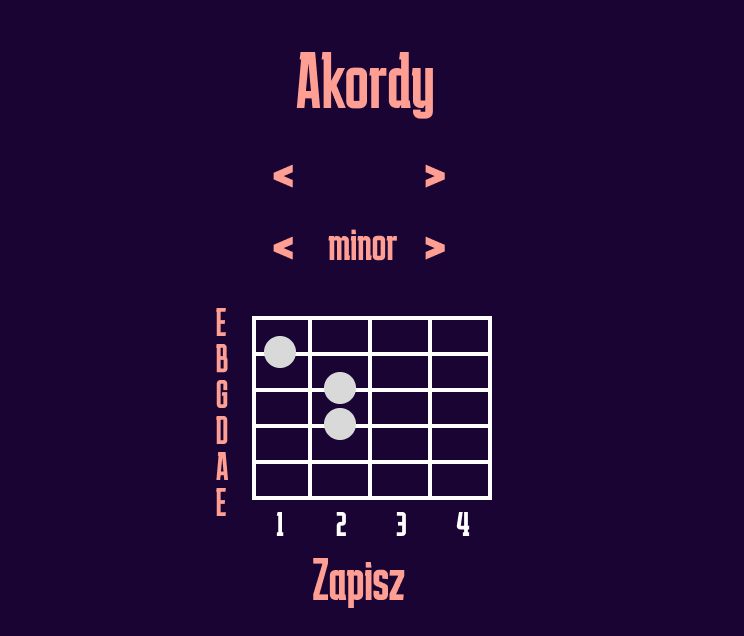
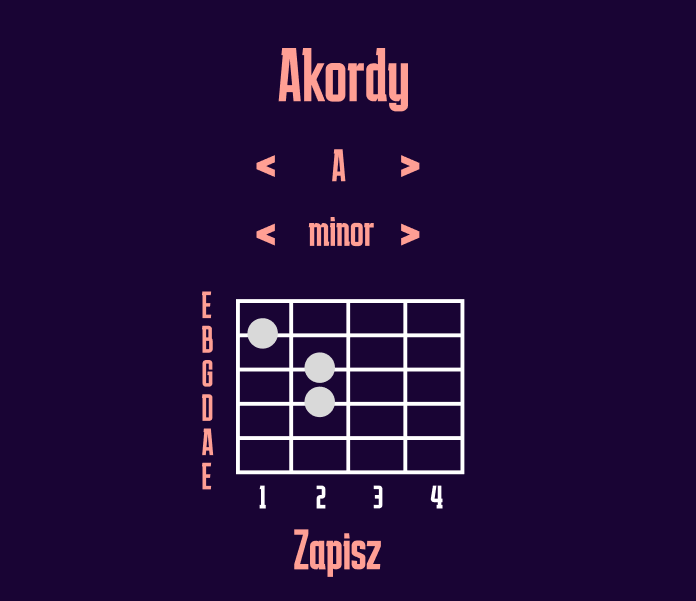
poprawki

diff --git a/DyplomSzablonMemoirUTF8/dodatekB.tex b/DyplomSzablonMemoirUTF8/dodatekB.tex
@@ -1,5 +1,25 @@
 \chapter{Instrukcja obsługi aplikacji}
-Po uruchomieniu aplikacji \emph{Guitarrr} w jej oknie pojawi się menu główne z 6 przyciskami:
+
+Finalna aplikacja różni się w kilku kwestiach od zaprojektowanych wcześniej makiet. Zmianie uległo ułożenie elementów menu głównego, dodano nowe przyciski "Księga akordów" i "X". Dodano dwa nowe widoki, których nie umieszczono na początkowych makietach: diagram akordów, zapisane akordy. Do obydwu z tych widoków można przejść jedynie z widoku księgi akordów, ponieważ stanowią one jego uzupełnienie. 
+
+Porównując widok metronomu, można zauważyć zmianę w elementach graficznych odpowiedzialnych za wybijanie taktów. Dodano też indykator BPM i przyciski odpowiedzialne za jego zmianę, jak i za zmianę tempa i uruchomienie metronomu.
+
+Księgę akordów uzupełniono o przycisk informacji kontekstowej, przycisk wyjścia i przyciski przenoszące do widoków "diagramu akordów" i "zapisanych akordów".
+
+Widok koła kwintowego uległ jedynie rozszerzeniu o wewnętrzne koło nut, przycisk wyjścia i informacji kontekstowej.
+
+Widok stroika pozostał w dużej mierze niezmieniony, jedynie strzałki wskazujące poziom nastrojenia zostały zastąpione na znaki "b" oraz "\#", przyjęto te oznaczenia jako ton zaniżony i~zawyżony.
+
+Scena treningu słuchu prezentuje się podobnie, natomiast przyciski odpowiedzi umieszczono wyżej, pod nimi natomiast znalazły się przyciski "GRAJ" i "RESET", odpowiedzialne za uruchomienie i reset treningu.
+
+Po uruchomieniu aplikacji \emph{Guitarrr} przed użytkownikiem pojawi się menu główne (patrz rys~\ref{fig:Menu}) z 6 przyciskami.
+
+\begin{figure}[htb]
+	\centering
+	\includegraphics[width=.50\linewidth]{rysB/MenuG}
+	\caption{Wizualna reprezentacja akordu} \label{fig:Menu}
+\end{figure}
+
 \begin{itemize}
     \item Metronom -- po naciśnięciu użytkownik zostanie przeniesiony do widoku metronomu.
     \item Akordy gitarowe -- po naciśnięciu użytkownik zostanie przeniesiony do widoku księgi akordów.
@@ -8,50 +28,94 @@ Po uruchomieniu aplikacji \emph{Guitarrr} w jej oknie pojawi się menu główne 
     \item Koło kwintowe -- po naciśnięciu użytkownik zostanie przeniesiony do widoku koła kwintowego.
     \item X -- po naciśnięciu aplikacja zostanie wyłączona.
 \end{itemize}
-Każdy z widoków zawiera przycisk ze znakiem "?", po naciśnięciu którego wyświetlona zostanie pomoc kontekstowa.
+Każdy z widoków głównych poza widokiem menu zawiera przycisk ze znakiem "?", po naciśnięciu którego wyświetlona zostanie pomoc kontekstowa.
 
-% TO DO: dołożyć widok głównego menu
 
-% TO DO: nie zgadzają się punkty z listy powyżej (lista przycisków) z opisem poniżej. Coś nie tak jest z "Akordy gitarowe"
-%        Poniżej mamy "Księgę akordów" oraz "Diagram akordów"
 
-% TO DO: dodać komentarz z odwołaniem do zaprezentowanych wcześniej makiet (czy coś się zmieniło? czy pojawiły się nowe widoku, których nie było na makietach?
+% DONE: dołożyć widok głównego menu
+
+% DONE: Do diagramu akordów można przejść jedynie ze sceny księgi akordów, zawrę tą informację ||| nie zgadzają się punkty z listy powyżej (lista przycisków) z opisem poniżej. Coś nie tak jest z "Akordy gitarowe"
+%        Poniżej mamy "Księgę akordów" oraz "Diagram akordów" 
+
+% DONE: dodać komentarz z odwołaniem do zaprezentowanych wcześniej makiet (czy coś się zmieniło? czy pojawiły się nowe widoku, których nie było na makietach?
 
 \paragraph{Metronom}
 
-Korzystając z metronomu, użytkownik ma dostęp do 2 przycisków odpowiedzialnych za zmianę liczby taktów (początkowo ustawione na 2) oraz 2 przyciski odpowiedzialne za zmianę liczby BPM (początkowo ustawione na 60). Aby dodać takt, należy nacisnąć przycisk z napisem "Dodaj takt", natomiast aby odjąć takt, użytkownik winien nacisnąć przycisk "Odejmij takt". Przycisk "+" służy do zwiększenia liczby BPM, natomiast "-" do ich zmniejszenia. Jeżeli użytkownik chciałby rozpocząć trening, należy nacisnąć przycisk "Start".
+Korzystając z metronomu (rys.~\ref{fig:Metronom}), użytkownik ma dostęp do 2 przycisków odpowiedzialnych za zmianę liczby taktów (początkowo ustawione na 2) oraz 2 przyciski odpowiedzialne za zmianę liczby BPM (początkowo ustawione na 60). Aby dodać takt, należy nacisnąć przycisk z napisem "Dodaj takt", natomiast aby odjąć takt, użytkownik winien nacisnąć przycisk "Odejmij takt". Przycisk "+" służy do zwiększenia liczby BPM, natomiast "-" do ich zmniejszenia. Jeżeli użytkownik chciałby rozpocząć trening, należy nacisnąć przycisk "Start".
 
-% TO DO: dołożyć widok metronomu
+\begin{figure}[htb]
+	\centering
+	\includegraphics[width=.50\linewidth]{rysB/METRO.png}
+	\caption{Widok metronomu} \label{fig:Metronom}
+\end{figure}
 
+% DONE: dołożyć widok metronomu
 
 \paragraph{Księga akordów}
 
-Korzystając z księgi akordów na ekranie widoczny jest akord, który podpisany jest nad nim. Do zmiany akordu służą 4 przyciski, które użytkownik może naciskać, aby przeglądać listę dostępnych akordów. Poniżej akordu znajduje się przycisk "Zapisz". Po jego naciśnięciu aktualnie wyświetlany akord zostanie zapisany i będzie dostępny w widoku zapisanych akordów.
+Korzystając z księgi akordów (rys.~\ref{fig:Ksiega_Zapisane}) na ekranie widoczny jest akord, który podpisany jest nad nim. Do zmiany akordu służą 4 przyciski, które użytkownik może naciskać, aby przeglądać listę dostępnych akordów. Poniżej akordu znajduje się przycisk "Zapisz". Po jego naciśnięciu aktualnie wyświetlany akord zostanie zapisany i będzie dostępny w widoku zapisanych akordów.
 
-% TO DO: dołożyć widok Księgi rekordów. Na makietach nie widziałem widoku zapisanych akordów. Czy nie trzeba dołożyć też tego widoku?
-
+% DONE: dołożyć widok Księgi rekordów. Na makietach nie widziałem widoku zapisanych akordów. Czy nie trzeba dołożyć też tego widoku?
+\begin{figure}[htb]
+    \centering
+		\begin{tabular}{ll}
+		a) & b) \\
+		\vtop{\vskip-2ex\hbox{\includegraphics[width=0.5\linewidth]{rysB/Akordy}}} &
+		\vtop{\vskip-2ex\hbox{\includegraphics[width=0.50\linewidth]{rysB/Zapisane}}} \\
+		\end{tabular}
+        \caption{Widoku scen: a) Księga akordów, b) Zapisane akordy}
+        \label{fig:Ksiega_Zapisane}
+\end{figure}
 
 \paragraph{Diagram akordów}
 
-Diagram akordów prezentuje wszystkie dostępne w aplikacji akordy. Użytkownik może przewijać diagram za pomocą dwóch przycisków umieszczonych na dole ekranu. Po naciśnięciu na jeden z akordów użytkownik zostanie przeniesiony do widoku księgi akordów.
+Diagram akordów (rys.~\ref{fig:DiagramAk}) prezentuje wszystkie dostępne w aplikacji akordy. Użytkownik może przewijać diagram za pomocą dwóch przycisków umieszczonych na dole ekranu. Po naciśnięciu na jeden z akordów użytkownik zostanie przeniesiony do widoku księgi akordów.
 
-% TO DO: dołożyć widok diagramu akordów. Czym się różni widok Księgi akordów od widoku Diagramu akordów? Na makietach nie było Diagramu akordów
+% DONE: dołożyć widok diagramu akordów. Czym się różni widok Księgi akordów od widoku Diagramu akordów? Na makietach nie było Diagramu akordów
 
+\begin{figure}[htb]
+	\centering
+	\includegraphics[width=.5\linewidth]{rysB/Diagram}
+	\caption{Diagram akordów} \label{fig:DiagramAk}
+\end{figure}
 
 \paragraph{Stroik}
 
-W widoku stroika dla użytkownika dostępne jest 6 przycisków oznaczających nuty gitarowe. Po naciśnięciu jednego z przycisków rozpocznie się faza nagrywania. Wtedy użytkownik powinien wziąć swoją gitarę i uderzyć w docelową strunę. Pośrodku sceny podświetlony zostanie 1 z 3 elementów (patrząc od lewej), oznaczających: zbyt niski ton, dobry ton lub zbyt wysoki ton.
+W widoku stroika (rys.~\ref{fig:Stroik}) dla użytkownika dostępne jest 6 przycisków oznaczających nuty gitarowe. Po naciśnięciu jednego z przycisków rozpocznie się faza nagrywania. Wtedy użytkownik powinien wziąć swoją gitarę i uderzyć w docelową strunę. Pośrodku sceny podświetlony zostanie 1 z 3 elementów (patrząc od lewej), oznaczających: zbyt niski ton, dobry ton lub zbyt wysoki ton. Aby skorzystać z narzędzia stroika aplikacja musi mieć dostęp do mikrofonu i~głośników urządzenia, na którym została uruchomiona.
 
-% TO DO: tutaj można dodać, że widok zaimplementowany pokrywa się z makietą
+\begin{figure}[htb]
+	\centering
+	\includegraphics[width=.5\linewidth]{rysB/Stroik}
+	\caption{Widok stroika} \label{fig:Stroik}
+\end{figure}
+
+% DONE: tutaj można dodać, że widok zaimplementowany pokrywa się z makietą
 
 \paragraph{Trening słuchu}
 
-Scena treningu słuchu wita użytkownika wyborem 4 możliwych tonacji do odbycia treningu. Po wybraniu jednej z 4 możliwych tonacji przed użytkownikiem pojawi się odpowiadająca skala majorowa. Następnie należy nacisnąć przycisk "GRAJ", po czym odgadnąć odegraną nutę za pomocą dostępnych przycisków. W razie chęci zmiany skali należy nacisnąć przycisk reset. Po jego naciśnięciu ponownie wyświetlone zostaną 4 możliwe tonacje.
+Scena treningu słuchu (rys.~\ref{TreningS}) wita użytkownika wyborem 4 możliwych tonacji do odbycia treningu. Po wybraniu jednej z 4 możliwych tonacji przed użytkownikiem pojawi się odpowiadająca skala majorowa. Następnie należy nacisnąć przycisk "GRAJ", po czym odgadnąć odegraną nutę za pomocą dostępnych przycisków. W razie chęci zmiany skali należy nacisnąć przycisk "RESET". Po jego naciśnięciu ponownie wyświetlone zostaną 4 możliwe tonacje.
 
-% TO DO: dodać widok Treningu słuchu. Na makiecie nie było przycisku "GRAJ". Proszę wyjaśnić różnice
+\begin{figure}[htb]
+    \centering
+    \begin{tabular}{ll}
+		a) & b) \\
+		\vtop{\vskip-2ex\hbox{\includegraphics[width=0.5\linewidth]{rysB/Tren1}}} &
+		\vtop{\vskip-2ex\hbox{\includegraphics[width=0.50\linewidth]{rysB/Tren2}}} \\
+		\end{tabular}
+    \caption{Widok scen: a) Widok początkowy, b) Widok po wyborze skali treningowej}
+    \label{fig:TreningS}
+\end{figure}
+
+% DONE: dodać widok Treningu słuchu. Na makiecie nie było przycisku "GRAJ". Proszę wyjaśnić różnice
 
 \paragraph{Koło kwintowe}
 
 Koło kwintowe zawiera 12 przycisków zewnętrznych, z którymi użytkownik może wchodzić w~interakcję. Po naciśnięciu jednego z przycisków na zewnętrznym kole, kolorowo zaznaczone zostaną te nuty, które wchodzą w skład skali majorowej, dla której wybrana nuta jest tonem głównym. Ponadto na szaro podświetlą się przyciski symbolizujące akordy pasujące do danej skali.
 
-% TO DO: dodać widok Koła kwintylowego. Na widoku powinno być widać wyszarzenia (dla przykładowego układu)
+\begin{figure}[htb]
+	\centering
+	\includegraphics[width=.5\linewidth]{rysB/KoloK}
+	\caption{Widok koła kwintowego} \label{fig:Kolo}
+\end{figure}
+
+% DONE: dodać widok Koła kwintylowego. Na widoku powinno być widać wyszarzenia (dla przykładowego układu)

diff --git a/DyplomSzablonMemoirUTF8/rozdzial04.tex b/DyplomSzablonMemoirUTF8/rozdzial04.tex
@@ -43,7 +43,7 @@ służy do analizy odebranego dźwięku. Zawiera ona wymienione poniżej zmienne
 \end{itemize}
 
 Funkcją uruchamiającą szybką transformatę Fouriera na odebranym dźwięku jest \texttt{Estimate} (listing~\ref{lst:1}) z tej klasy. Zwraca one zmienną float \texttt{bestFreq}, będąca najlepszym możliwym według programu ,,trafieniem'', jeżeli chodzi o odebraną częstotliwość. Klasa \texttt{TunerManager} odpowiedzialna za realizowanie logiki sceny, przechowuje odwołania do komponentów sceny: przyciski, pola tekstowe, obiekt \texttt{AudioSource}. W jej skład wchodzi 6 funkcji o nazwie \texttt{SetDesiredFrequency*}, przy czym każdemu z przycisków przypisany jest jeden jej odpowiednik, ustawiający parametry skryptu \texttt{AudioPitchEstimator}. Funkcją odpowiedzialną za logikę analizy dźwięku jest \texttt{EstimatePitch}, która korzysta z klasy \texttt{AudioPitchEstimator}, na tej podstawia ustawia wartości elementów tekstowych informujących użytkownika o poziomie nastrojenia instrumentu. 
-% TO DO:zamienione linie kodu
+% DONE:zamienione linie kodu
 % var nyquistFreq = AudioSettings.outputSampleRate / 2.0f;
 % if (!audioSource.isPlaying) return float.NaN;
 
@@ -191,7 +191,7 @@ private void ChangeChord()
 
 \subsection{Trening słuchu}
 
-Scena treningu słuchu zawiera przycisk odpowiedzialny za wybór skali. W skład sceny wchodzą dwie klasy: \texttt{EarTrainerManager} -- przypisany do menadżera sceny realizujący główną logikę sceny oraz \texttt{ButtonIndex} -- klasa pomocnicza przypisana do każdego z przycisków odpowiedzialnych za udzielenie odpowiedzi. Funkcje wchodzące w~skład głównej klasy to:
+Scena treningu słuchu zawiera przycisk odpowiedzialny za wybór skali treningowej, po wyborze której pojawiają się przyciski odpowiedzi, wraz z przyciskami odpowiedzialnymi za uruchomienie treningu i jego reset. W skład sceny wchodzą dwie klasy: \texttt{EarTrainerManager} -- przypisany do menadżera sceny realizujący główną logikę sceny oraz \texttt{ButtonIndex} -- klasa pomocnicza przypisana do każdego z przycisków odpowiedzialnych za udzielenie odpowiedzi. Funkcje wchodzące w~skład głównej klasy to:
 \begin{itemize}
     \item \texttt{Start} -- funkcja przypisująca obiekt \texttt{audioSource}, odpowiedzialny za odgrywanie dźwięków. Ustawia ona również funkcję \texttt{PlayRandomNote} do przycisku \texttt{playNoteButton}. Dodatkowo przypisuje ona funkcję \texttt{NoteGuessed} do każdego z przycisków odpowiedzialnych za odpowiedź.
     \item \texttt{PlayRandomNote} -- funkcja odpowiedzialna za odegranie losowego dźwięku po naciśnięciu przycisku \texttt{playNoteButton}. Ustawia ona odpowiedni index dla odegranej nuty, wykorzystywany następnie podczas zweryfikowania odpowiedzi podanej przez użytkownika.

diff --git a/DyplomSzablonMemoirUTF8/rozdzial05.tex b/DyplomSzablonMemoirUTF8/rozdzial05.tex
@@ -11,6 +11,7 @@ Specyfikacja systemu, na którym przeprowadzono testy akceptacyjne:
     \item Typ systemu: 64-bitowy system operacyjny, procesor x64,
     \item Obciążenie procesora podczas wykonywania testów: 32\%.
 \end{itemize}
+Wszystkie testy przeprowadzone zostały przez twórcę pracy. Do testów narzędzia stroika posłużono się gitarą klasyczną marki \emph{Ever Play}.
 
 \subsubsection{Scenariusz testów metronomu}
 
@@ -113,6 +114,7 @@ Specyfikacja systemu, na którym przeprowadzono testy akceptacyjne:
     \item Warunki początkowe: Uruchomienie aplikacji, rozpoczynając od widoku menu głównego
     \item Scenariusz 1:
         \begin{enumerate}
+            \item Uruchom narzędzie koła kwintowego
             \item Naciśnij przycisk z tekstem "C"
             \item Zweryfikuj rezultat
         \end{enumerate}
@@ -120,6 +122,7 @@ Specyfikacja systemu, na którym przeprowadzono testy akceptacyjne:
     \item Wynik testu: Wynik testu jest pozytywny, działanie narzędzia pokrywa się z oczekiwanymi rezultatami
     \item Scenariusz 2:
         \begin{enumerate}
+            \item Uruchom narzędzie koła kwintowego
             \item Naciśnij przycisk z tekstem "E"
             \item Zweryfikuj rezultat
         \end{enumerate}
@@ -127,7 +130,22 @@ Specyfikacja systemu, na którym przeprowadzono testy akceptacyjne:
     \item Wynik testu: Pozytywny, działanie narzędzia pokrywa się z oczekiwanymi rezultatami
 \end{itemize}
 
-Wszystkie testy przeprowadzone zostały przez twórcę pracy. Do testów narzędzia stroika posłużono się gitarą klasyczną marki \emph{Ever Play}.
+\paragraph{Scenariusz testów treningu słuchu}
+
+\begin{itemize}
+    \item Cel: Zbadanie poprawności działania treningu słuchu
+    \item Warunki początkowe: Uruchomienie aplikacji, rozpoczynając od widoku menu głównego
+    \item Scenariusz 1:
+        \begin{enumerate}
+            \item Uruchom narzedzie treningu słuchu
+            \item Naciśnij przycisk z tekstem "C"
+            \item Naciśnij przycisk "GRAJ"
+            \item Naciśnij przycisk "RESET"
+        \end{enumerate}
+    \item Oczekiwany rezultat: Odegrana zostanie 1 nuta, po czym użytkownik przeniesiony zostanie do widoku wyboru tonu treningu
+    \item Wynik testu: Wynik testu jest pozytywny, działanie narzędzia pokrywa się z oczekiwanymi rezultatami
+\end{itemize}
+
 
 \section{Testy jednostkowe}
 

diff --git a/DyplomSzablonMemoirUTF8/rozdzial02.tex b/DyplomSzablonMemoirUTF8/rozdzial02.tex
@@ -76,7 +76,7 @@ Poza tym sama witryna zawiera sekcję z narzędziami do nauki (patrz rysunek~\re
 	e) & \\
 	\vtop{\vskip-2ex\hbox{\includegraphics[width=.48\linewidth]{rys02/SKALETF}}} & 
 	\end{tabular}
-	\caption{Narzędzia dostępne w aplikacji TrueFire: a) stroik, b) eksplorator akordów, c) metronom, d) księga akordów, e) diagram skal} \label{fig:truefire} % TO DO: etykiety nie mogą się powtarzać !!!!!
+	\caption{Narzędzia dostępne w aplikacji TrueFire: a) stroik, b) eksplorator akordów, c) metronom, d) księga akordów, e) diagram skal} \label{fig:truefire} % DONE: etykiety nie mogą się powtarzać !!!!!
 \end{figure}
 
 \paragraph{Stroik}

diff --git a/DyplomSzablonMemoirUTF8/rozdzial03.tex b/DyplomSzablonMemoirUTF8/rozdzial03.tex
@@ -47,7 +47,7 @@ Na rysunku~\ref{fig:makiety} przedstawiono zaprojektowane makiety interfejsu uż
 \begin{figure}[htb]
     \centering
 		\begin{tabular}{ll}
-		a) & b \\
+		a) & b) \\
 		\vtop{\vskip-2ex\hbox{\includegraphics[width=0.4\linewidth]{rys03/MakMain}}} &
 		\vtop{\vskip-2ex\hbox{\includegraphics[width=0.4\linewidth]{rys03/MakAkordy}}} \\
 		c) & d) \\
